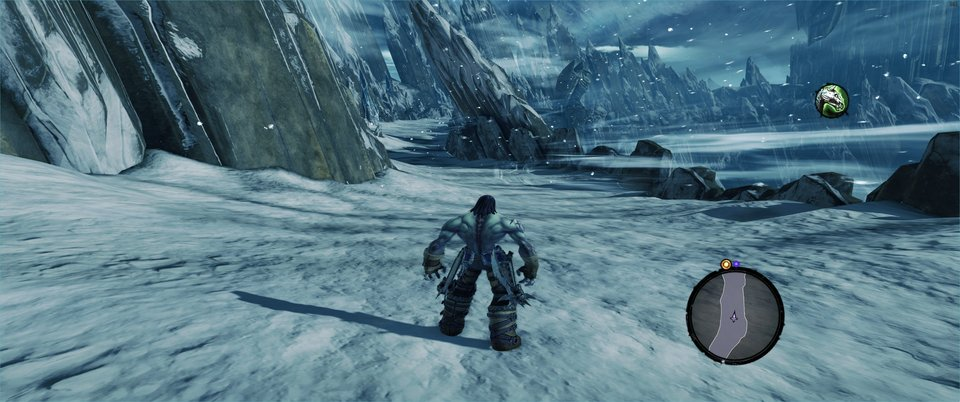
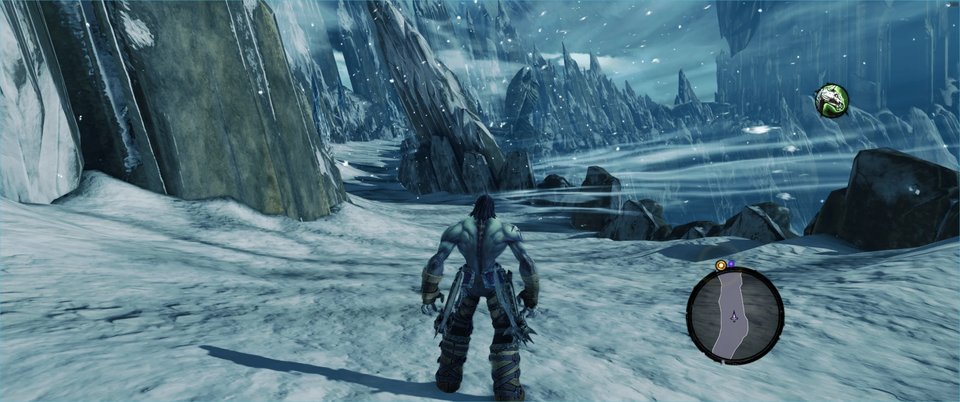
Darksiders II DX9: proper Hor+ (16:9 projections get the screen's aspect) instead of a widened field of view; the cached GitHub file list is per WideTweaks version

diff --git a/widetweaks_app.py b/widetweaks_app.py
@@ -160,7 +160,8 @@ def install_zip(data):
 def listing(folder, offline=False):
     """{file name: download URL} of a folder of the repo's main branch on GitHub (asked at most hourly). The URLs carry
     the file's hash, so a file is downloaded again only when it changed."""
-    items = json.loads(download(f'{API}/contents/{folder}?ref=main', max_age=3600, offline=offline))
+    # v= in the URL: an updated WideTweaks never reuses the list (and so the fix files) an older one cached
+    items = json.loads(download(f'{API}/contents/{folder}?ref=main&v={widetweaks.VERSION}', max_age=3600, offline=offline))
     return {i['name']: f"{RAW}{folder}/{i['name']}?{i['sha']}" for i in items if i['type'] == 'file'}
 
 

diff --git a/README.md b/README.md
@@ -8,7 +8,7 @@
 
 | Game | Fix |
 |---|---|
-| [Darksiders II Deathinitive Edition](https://store.steampowered.com/app/388410/) | Minimap icons line up with the minimap (DX9 or DX11 beta); on DX9 also the full picture (Hor+ field of view)<br><a href="docs/fixes/darksiders-2.md">How it works</a><details><summary>Before / after</summary><img src="docs/darksiders-2.jpg" width="560" alt="Darksiders II Deathinitive Edition at 3440x1440, original vs WideTweaks"></details> |
+| [Darksiders II Deathinitive Edition](https://store.steampowered.com/app/388410/) | Minimap icons line up with the minimap (DX9 or DX11 beta); on DX9 also an unstretched Hor+ picture<br><a href="docs/fixes/darksiders-2.md">How it works</a><details><summary>Before / after</summary><img src="docs/darksiders-2.jpg" width="560" alt="Darksiders II Deathinitive Edition at 3440x1440, original vs WideTweaks"></details> |
 | [DAVE THE DIVER](https://store.steampowered.com/app/1868140/) | Full width, ultrawide HUD, unlocked FPS<br><a href="docs/fixes/dave-the-diver.md">How it works</a><details><summary>Before / after</summary><img src="docs/dave-the-diver.jpg" width="560" alt="DAVE THE DIVER at 3440x1440, original vs WideTweaks"></details> |
 | [Order of the Sinking Star](https://store.steampowered.com/app/499170/) | Removes the black bars on 21:9 and 32:9<br><a href="docs/fixes/sinking-star.md">How it works</a><details><summary>Before / after</summary><img src="docs/sinking-star.jpg" width="560" alt="Order of the Sinking Star at 3440x1440, original vs WideTweaks"></details> |
 | [Sleeping Dogs: Definitive Edition](https://store.steampowered.com/app/307690/) | Full-width cutscenes and menus, HUD at the screen edges (minimap intact); current Steam exe or the 1.0 exe mods use<br><a href="docs/fixes/sleeping-dogs.md">How it works</a><details><summary>Before / after</summary><img src="docs/sleeping-dogs.jpg" width="560" alt="Sleeping Dogs: Definitive Edition at 3440x1440, original vs WideTweaks"></details> |

diff --git a/docs/fixes/darksiders-2.md b/docs/fixes/darksiders-2.md
@@ -6,11 +6,13 @@ Works with the default DX9 build and the DX11 beta branch "closed" (code DeathIs
 
 ## Ultrawide FOV (DX9 only)
 
-The DX9 build is Vert-: at 21:9 it keeps the 16:9 width of view and cuts the top and bottom, so the picture looks
-zoomed in (DX11 is Hor+). Like the Cheat Engine "Darksiders II Deathinitive Edition FOV v1.4" table, the switch writes a
-fixed field of view where the game stores the camera's (camera + 0x6C, 45 degrees by default) after blending it: 45 at
-16:9, widened for your screen with the height kept (58.2 at 3440x1440, 79.3 at 32:9). The blend call is replaced by
-the store, so the game's own field-of-view changes (zoom) don't apply while it's on.
+The DX9 build asks for a 16:9 projection for its gameplay camera whatever the screen or the Resolution setting, and the
+picture is then stretched across a wider screen (characters too wide, view zoomed in). New code at the end of the code
+section (in its unused bytes; the section size in the header is raised to cover them) checks the aspect every
+projection builder gets: one within 4 ulp of 16:9 is replaced with your screen's width / height. The field of view is
+vertical, so the picture keeps its 16:9 height and shows more at the sides (Hor+); zoom and camera moves work as
+before. Views with other shapes (shadows, reflections) are left alone. Hooked: the projection builder at 0x14074F938,
+its copy at 0x14075D814 and the D3DX-style builder at 0x140D38B9C.
 
 ## Patches
 
